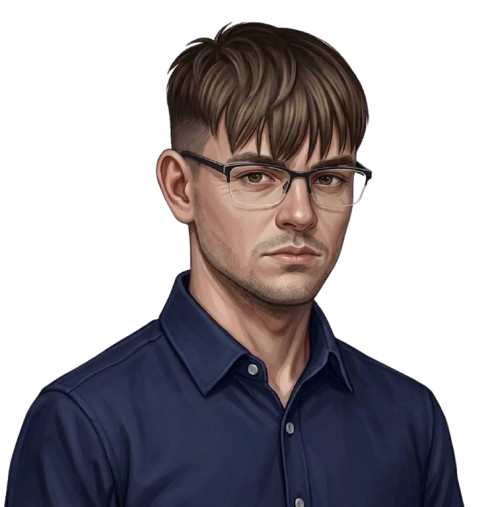
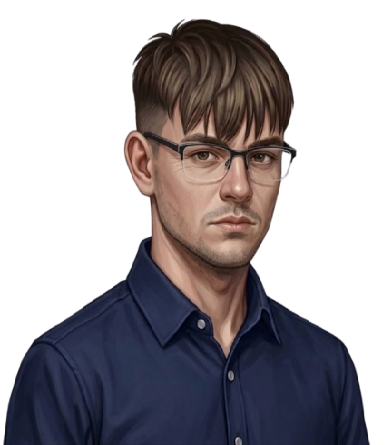
2026.09.21 Órai munka.
1 órai munka.
Pixel igazítgatás - Dominik, Milán
Sticky header - Dominik
Változtattunk az eredeti terveinket.

diff --git a/rolunk.html b/rolunk.html
@@ -9,13 +9,12 @@
     <title>Kekszi</title>
 </head>
 <body>
-
-    <header class="d-flex align-items-center px-4" id="tetejere">
+    <div id="fel"> </div>
+    <header class="d-flex align-items-center px-4">
         <a href="rolunk.html"><img src="Kepek/Kekszi.png" alt="Logo" width="100" class="me-3"></a>
         <nav class="d-flex gap-2">
             <a href="rolunk.html" class="btn btn-custom">Rólunk</a>
-            <a href="araink.html" class="btn btn-custom">Áraink</a>
-            <a href="szolgalt.html" class="btn btn-custom">Szolgáltatásaink</a>
+            <a href="araink.html" class="btn btn-custom">Szolgáltatásaink</a>
             <a href="https://milan0419.github.io/tictactoehtml/multi/index.html" class="btn btn-custom">Polibix</a>
         </nav>
     </header>
@@ -26,7 +25,7 @@
             <div class="profile-card p-4 rounded">
                 <!-- Fejléc: Kép + Név -->
                 <div class="d-flex align-items-center gap-3 mb-4 pb-3 border-bottom-custom">
-                    <img src="Kepek/Dominik.png" alt="Forró Dominik" width="100" class="rounded">
+                    <img src="Kepek/Dominik.png" alt="Forró Dominik" height = "150" width="148.86" class="rounded">
                     <h2 class="m-0 fs-1">Forró Dominik</h2>
                 </div>
 
@@ -62,10 +61,9 @@
             <div class="profile-card p-4 rounded">
                 <!-- Fejléc: Kép + Név -->
                 <div class="d-flex align-items-center gap-3 mb-4 pb-3 border-bottom-custom">
-                    <img src="Kepek/Milan.png" alt="Bálint Milán" width="100" class="rounded">
+                    <img class="milan rounded" src="Kepek/Milan.png" alt="Bálint Milán" height = "150" width="auto">
                     <h2 class="m-0 fs-1">Bálint Milán</h2>
                 </div>
-
                 <!-- Doboz 1: Pályaút -->
                 <h3 class="fs-5 fw-bold mb-2">Pályaút</h3>
                     <ul>
@@ -75,11 +73,12 @@
                         <li>ELTE - Szoftverfejlesztés</li>
                         <li>ISTQB - Szoftverfejlesztés</li>
                     </ul>
+
                 </div>
 
                 <!-- Doboz 2: Feladatkör -->
                 <div class="info-box p-3 rounded">
-                    <h3 class="fs-5 fw-bold mb-2">Munkakör</h3>
+                    <h3 class="fs-5 fw-bold mb-2" id="milan">Munkakör</h3>
                        <ul>
                             <li>A cross-platform (iOS / Android) mobilalkalmazások fejlesztése</li>
                             <li>A felhőalapú (Cloud) szolgáltatások és API-k kliensoldali kapcsolatának kiépítése</li>
@@ -131,7 +130,7 @@
   <p>
     Készítette: Bálint Milán · Forró Dominik · 2026
   </p>
-  <p><a href="#tetejere" class="btn btn-custom">Vissza a lap tetejére</a><p>
+  <p><a href="#fel" class="btn btn-custom">Vissza a lap tetejére</a><p>
   <p class="apro">Iskolai gyakorlófeladat.</p>
 </div>
 

diff --git a/araink.html b/araink.html
@@ -9,22 +9,27 @@
     <title>Kekszi</title>
 </head>
 <body>
-
+    <div id="tetejere"></div>
     <header class="d-flex align-items-center px-4" id="tetejere">
         <a href="rolunk.html"><img src="Kepek/Kekszi.png" alt="Logo" width="100" class="me-3"></a>
         <nav class="d-flex gap-2">
             <a href="rolunk.html" class="btn btn-custom">Rólunk</a>
-            <a href="araink.html" class="btn btn-custom">Áraink</a>
-            <a href="szolgalt.html" class="btn btn-custom">Szolgáltatásaink</a>
+            <a href="araink.html" class="btn btn-custom">Szolgáltatásaink</a>
             <a href="https://milan0419.github.io/tictactoehtml/multi/index.html" class="btn btn-custom">Polibix</a>
         </nav>
     </header>
 
     
 
-    <footer>
-        <p>&copy; 2024 Kekszi. Minden jog fenntartva.</p>
-    </footer>
+
+<div class="lablec">
+  <p>
+    Készítette: Bálint Milán · Forró Dominik · 2026
+  </p>
+  <p><a href="#tetejere" class="btn btn-custom">Vissza a lap tetejére</a><p>
+  <p class="apro">Iskolai gyakorlófeladat.</p>
+</div>
 
 </body>
+
 </html>

diff --git a/index.html b/index.html
@@ -9,13 +9,12 @@
     <title>Kekszi</title>
 </head>
 <body>
-
+    <div id="fel"> </div>
     <header class="d-flex align-items-center px-4" id="tetejere">
         <a href="rolunk.html"><img src="Kepek/Kekszi.png" alt="Logo" width="100" class="me-3"></a>
         <nav class="d-flex gap-2">
             <a href="rolunk.html" class="btn btn-custom">Rólunk</a>
-            <a href="araink.html" class="btn btn-custom">Áraink</a>
-            <a href="szolgalt.html" class="btn btn-custom">Szolgáltatásaink</a>
+            <a href="araink.html" class="btn btn-custom">Szolgáltatásaink</a>
             <a href="https://milan0419.github.io/tictactoehtml/multi/index.html" class="btn btn-custom">Polibix</a>
         </nav>
     </header>
@@ -29,9 +28,10 @@
   <p>
     Készítette: Bálint Milán · Forró Dominik · 2026
   </p>
-  <p><a href="#tetejere">Vissza a lap tetejére</a><p>
+  <p><a href="#tetejere" class="btn btn-custom">Vissza a lap tetejére</a><p>
   <p class="apro">Iskolai gyakorlófeladat.</p>
 </div>
 
 </body>
+
 </html>

diff --git a/style.css b/style.css
@@ -10,6 +10,8 @@ header {
     border-bottom: 2px solid rgb(228, 168, 89);
     height: 100px;
     box-shadow: 0 6px 16px rgba(0, 0, 0, 0.15); 
+    Position:sticky;
+    top:0;
 }
 
 .btn-custom {
@@ -39,7 +41,7 @@ header {
     font-size: 15px;
     border-top: 2px solid rgb(228, 168, 89);
     box-shadow: 0 6px 16px rgba(0, 0, 0, 0.15); 
-
+    
 }
 
 .apro {
@@ -114,3 +116,9 @@ header {
     box-shadow: 0 6px 16px rgba(0, 0, 0, 0.15); 
 }
 
+.milan{
+    margin-bottom: 17px;
+}
+#milan{
+    margin-top: 6.7px;
+}
